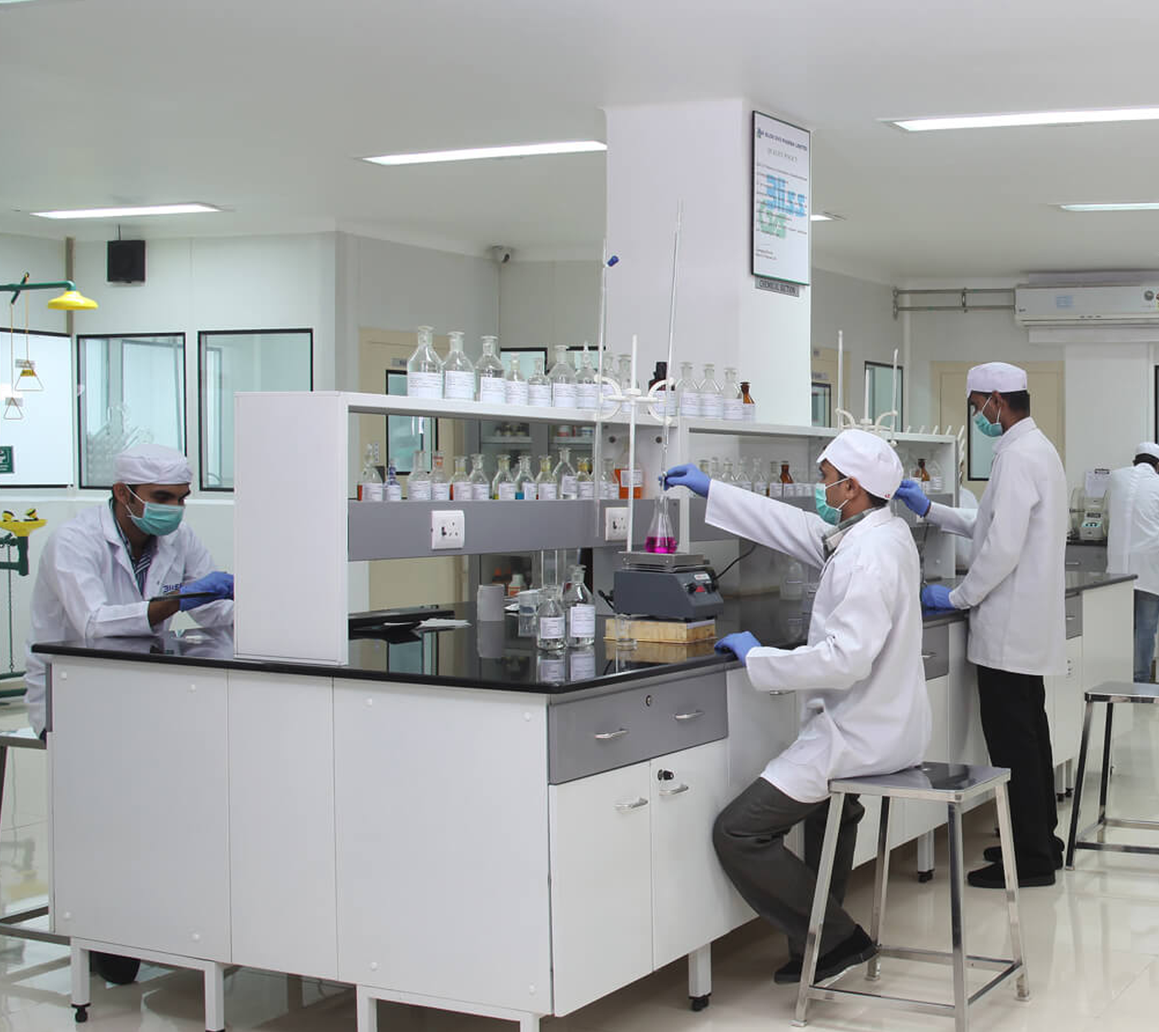
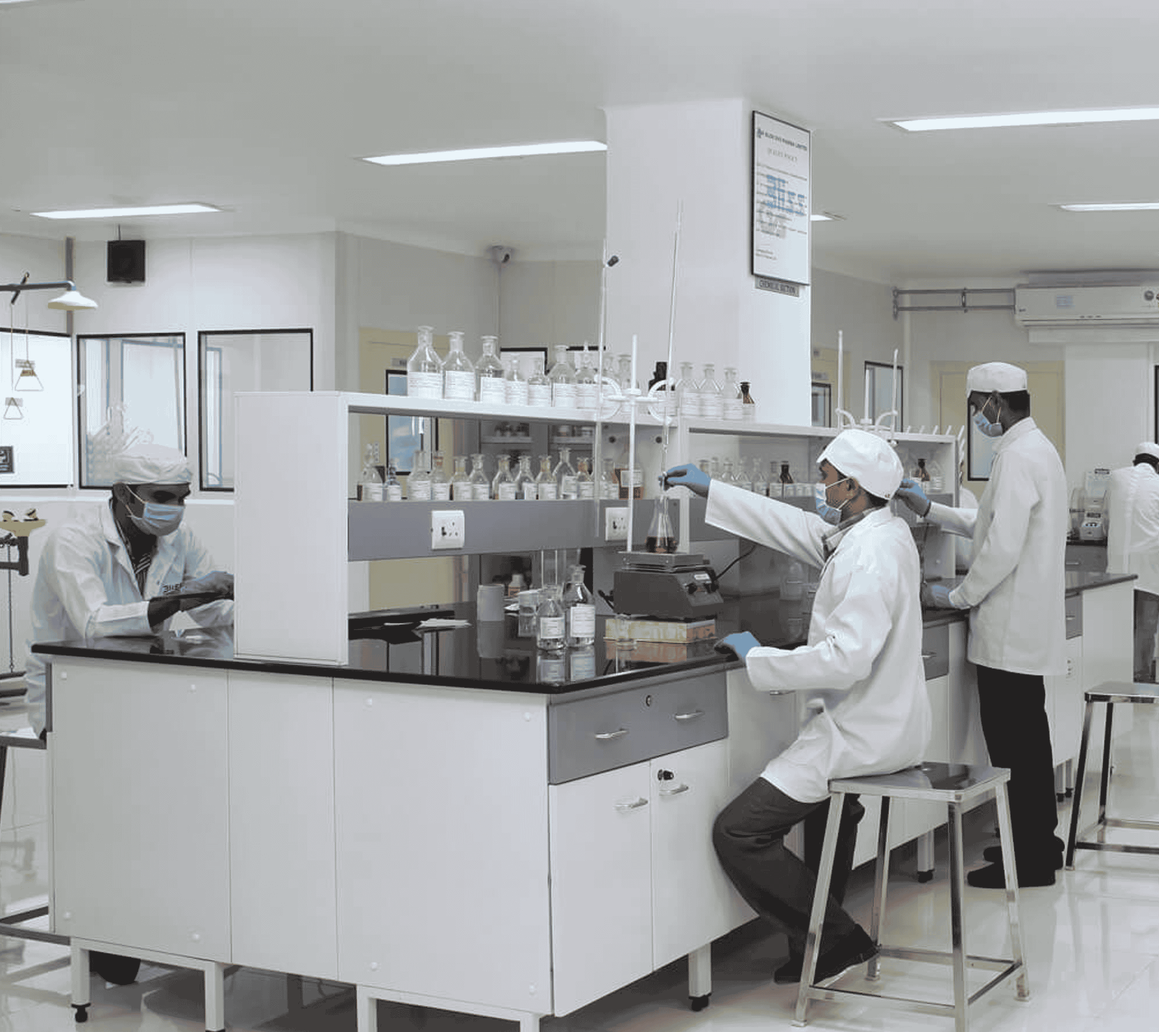
img compress work

diff --git a/contact-us.html b/contact-us.html
@@ -188,7 +188,7 @@
                      <h4 class="pq-contact-box-title">
                         Our Location
                      </h4>
-                     <p class="pq-contact-box-description">No 3 Vijayalakshmi Nagar Retti Chavadi, Cuddallore - 607001.
+                     <p class="pq-contact-box-description">No 3 Vijayalakshmi Nagar Retti Chavadi, Cuddalore - 607001.
                      </p>
                   </div>
                </div>
@@ -353,7 +353,7 @@
                                  <li> <a href="mailto:info@peacefulthemes.com"><i
                                           class="fas fa-envelope"></i><span>marketing@bioscience.in</span></a> </li>
                                  <li> <i class="fas fa-map-marker"></i> <span>
-                                       No.6 Kondoru Main Road, Sivaraman Nagar Kondur, Cuddallore - 607006.</span> </li>
+                                       No.6 Kondoru Main Road, Sivaraman Nagar Kondur, Cuddalore - 607006.</span> </li>
                               </ul>
                            </div>
                            <div class="pq-footer-social">

diff --git a/indexog.html b/indexog.html
@@ -1035,7 +1035,7 @@
                                  <li> <a href="mailto:info@peacefulthemes.com"><i
                                           class="fas fa-envelope"></i><span>marketing@bioscience.in</span></a> </li>
                                  <li> <i class="fas fa-map-marker"></i> <span>
-                                       No.6 Kondoru Main Road, Sivaraman Nagar Kondur, Cuddallore - 607006.</span> </li>
+                                       No.6 Kondoru Main Road, Sivaraman Nagar Kondur, Cuddalore - 607006.</span> </li>
                               </ul>
                            </div>
                            <div class="pq-footer-social">

diff --git a/about-us.html b/about-us.html
@@ -881,7 +881,7 @@
                                  <li> <a href="mailto:info@peacefulthemes.com"><i
                                           class="fas fa-envelope"></i><span>marketing@bioscience.in</span></a> </li>
                                  <li> <i class="fas fa-map-marker"></i> <span>
-                                       No.6 Kondoru Main Road, Sivaraman Nagar Kondur, Cuddallore - 607006.</span> </li>
+                                       No.6 Kondoru Main Road, Sivaraman Nagar Kondur, Cuddalore - 607006.</span> </li>
                               </ul>
                            </div>
                            <div class="pq-footer-social">

diff --git a/index.html b/index.html
@@ -20,7 +20,7 @@
    <link rel="stylesheet" href="css/progressbar.css">
    <!-- Animation CSS -->
    <link rel="stylesheet" href="css/animations.min.css">
-   <!-- Magnefic Popup CSS -->~~~
+   <!-- Magnefic Popup CSS -->
    <link rel="stylesheet" href="css/magnific-popup.min.css">
    <!-- Icons CSS -->
    <link rel="stylesheet" href="fonts/font-awesome/css/all.min.css">
